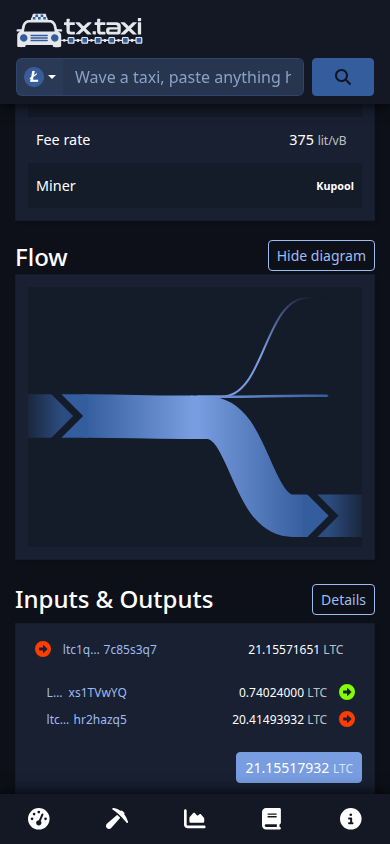
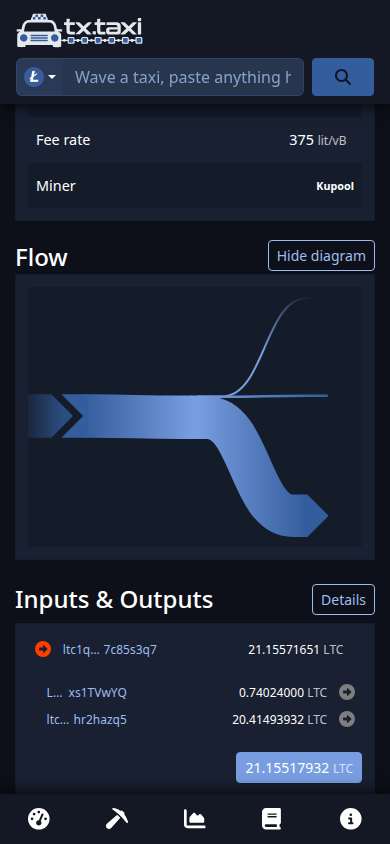
Record final production Litecoin palette verification

Changed region(s): [[0.8308, 0.5853, 0.9231, 0.6469], [0.8615, 0.8009, 0.9231, 0.8626]]

diff --git a/review/deployment/theme/README.md b/review/deployment/theme/README.md
@@ -7,3 +7,5 @@ Mempool Original explicitly restores purple mainnet gradients, green fiat values
 Incremental Angular build passes. Desktop render and theme-switching checks passed; screenshots inspected. Verification uses recorded block/transaction fixtures and controlled fee inputs to distinguish palette behavior from intermittent live-provider availability. The verification harness had to account for the mobile hidden economy fee tier and collapsed flow diagram; skipped/loading states are not counted as passes. Final mobile and production evidence follows.
 
 Local final pass: desktop and mobile default/original switching, refresh persistence and blue transaction gradient all pass with no page errors (`local.json`). Mobile opens the tracker first; the check now follows “See more details” to the transaction view before opening/inspecting its diagram. Both mobile renderings and the original-theme desktop rendering were opened and inspected. This is controlled palette verification, not an upstream uptime claim.
+
+Final production verification: ef3c59ed0 deployed via pnomccj61jjyr6yjkc0qw3su, followed by immediate chart repaint fix 7499c3920 via ow073j5v5ankf4mkqbukbjqy. Both deployments finished. The final public bundle passed controlled desktop/mobile fee-palette and flow checks, default/original switching, refresh persistence and zero page errors (`public.json`). Public mobile transaction diagram was opened and inspected. Recorded fixtures isolate palette verification from intermittent provider availability; live block fills were also visually observed in blue during the local pass. Evidence-only follow-up is kept local.
